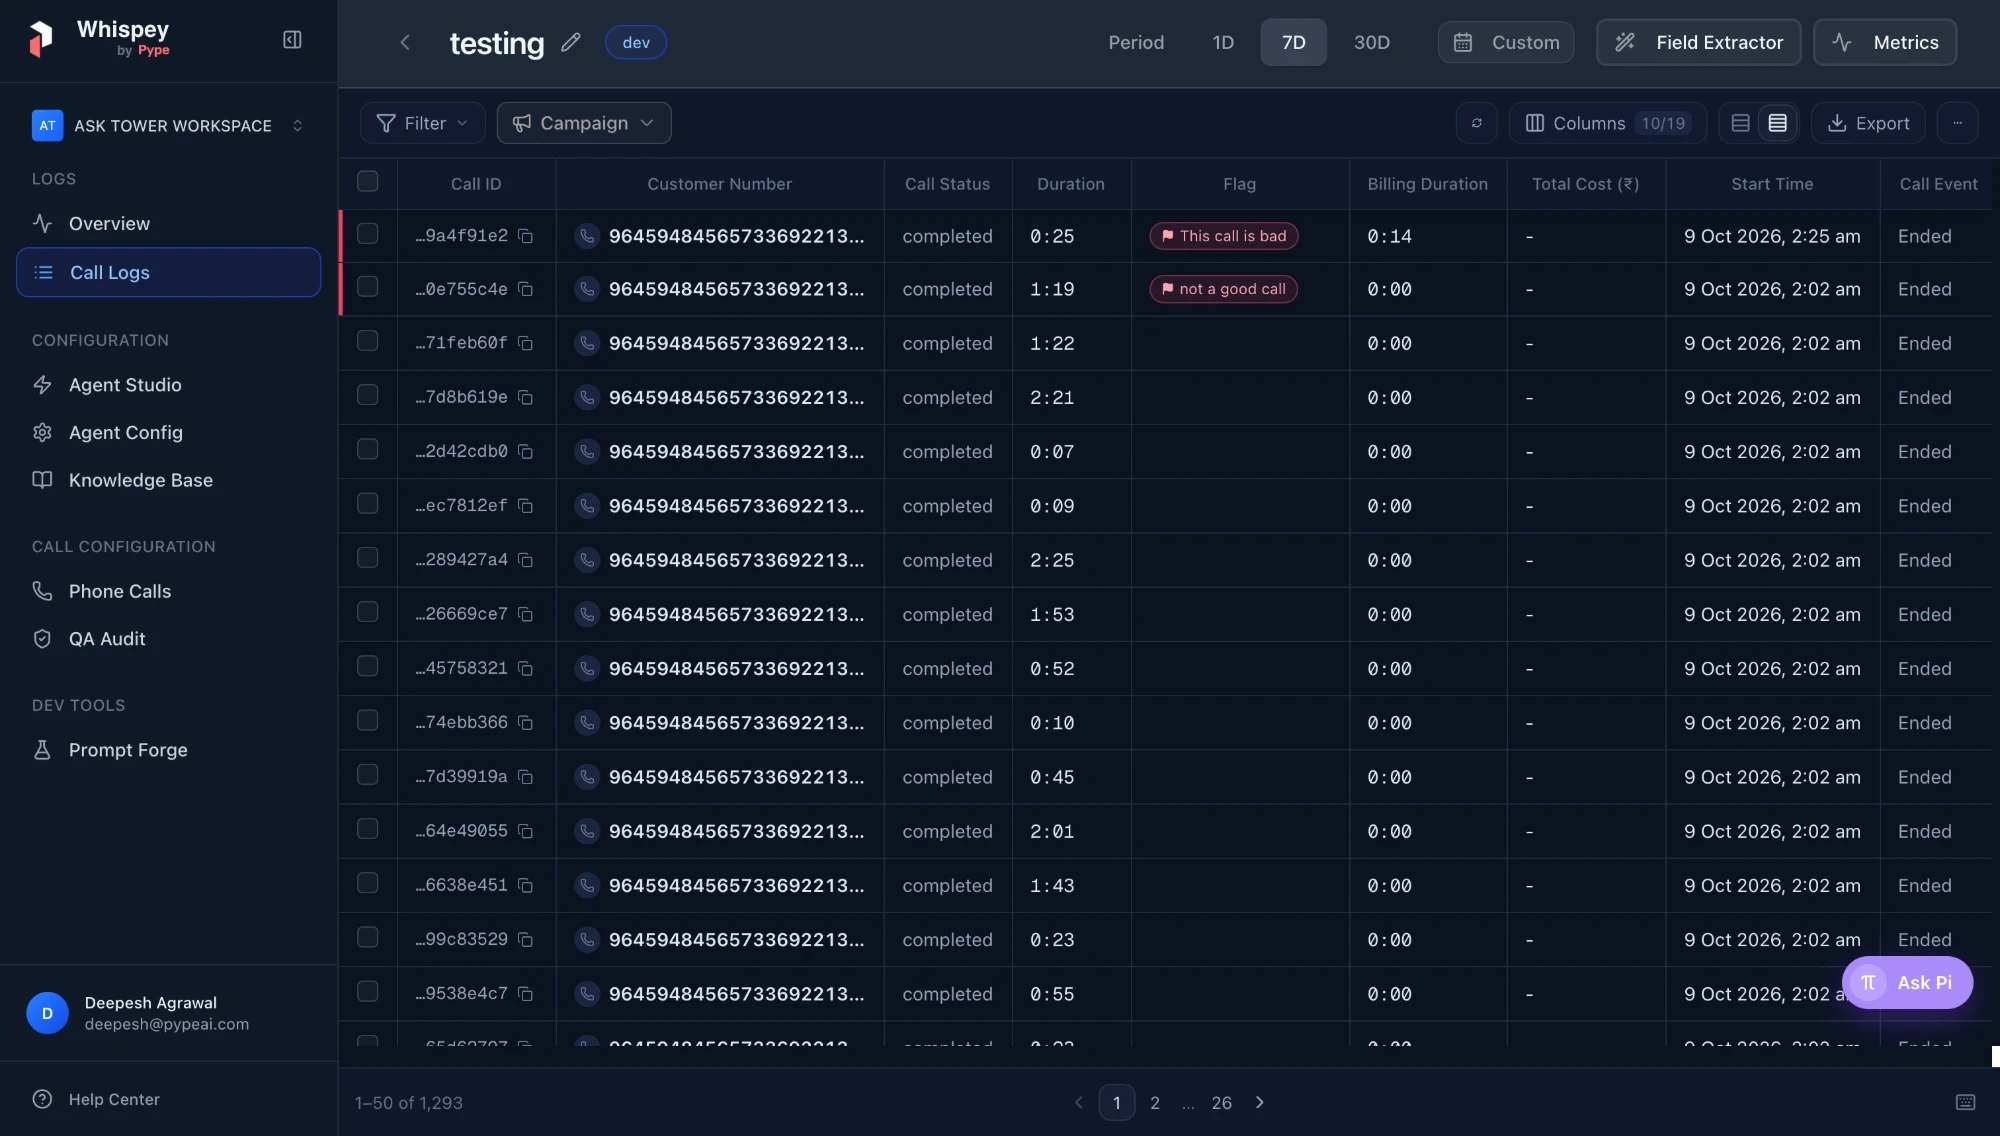
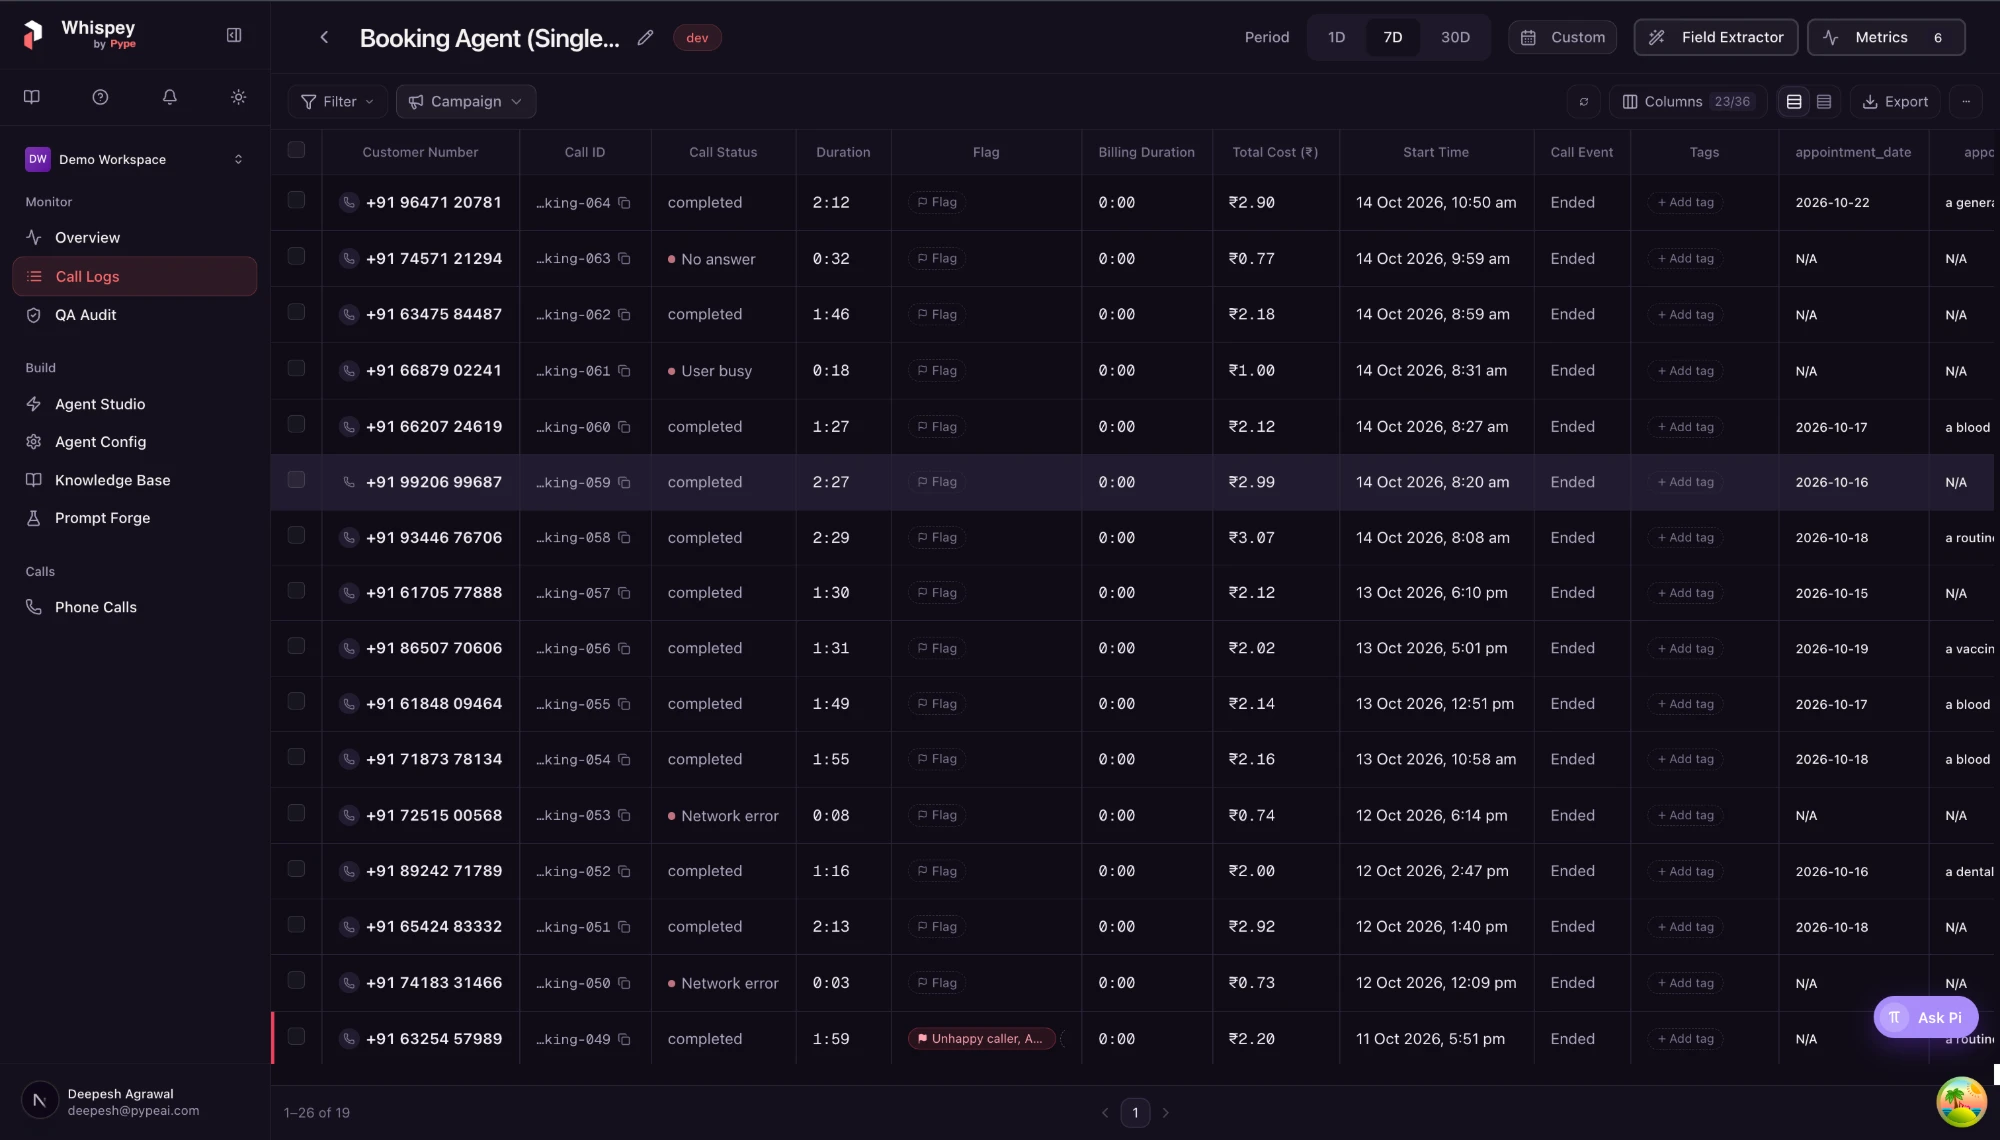
feat(landing): call logs screenshots in the new brand, light and dark

diff --git a/src/components/landing/index.tsx b/src/components/landing/index.tsx
@@ -115,8 +115,8 @@ export default function LandingPage() {
 
         <section className="mx-auto max-w-5xl px-6 pb-20">
           <div className="wl-frame">
-            <Image src="/call-logs-light.webp" alt="The call logs page in Whispey, listing each call with its status, duration and flag" width={2000} height={1130} priority className="h-auto w-full dark:hidden" />
-            <Image src="/call-logs-dark.webp" alt="" width={2000} height={1136} priority className="hidden h-auto w-full dark:block" />
+            <Image src="/call-logs-light.webp" alt="The call logs page in Whispey, listing each call with its status, duration and flag" width={2000} height={1135} priority className="h-auto w-full dark:hidden" />
+            <Image src="/call-logs-dark.webp" alt="" width={2000} height={1069} priority className="hidden h-auto w-full dark:block" />
           </div>
         </section>
 
